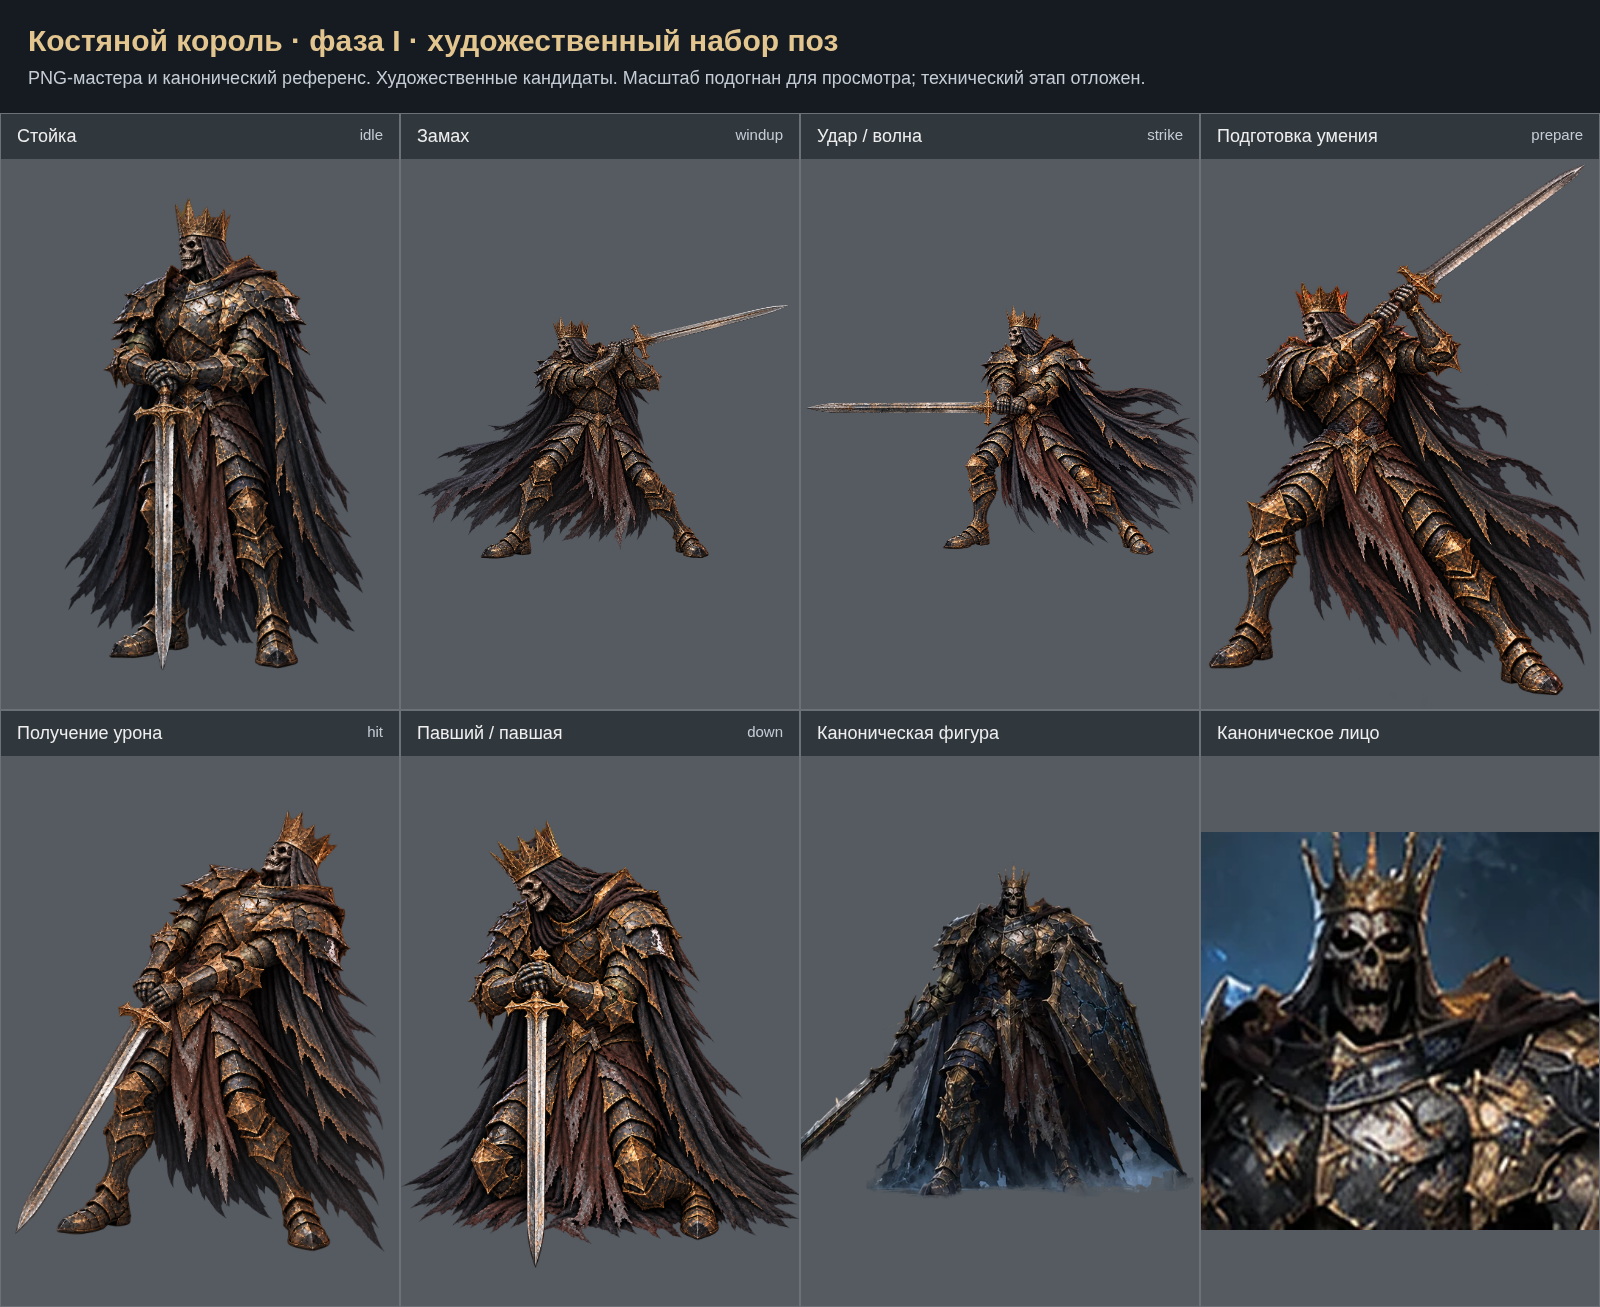
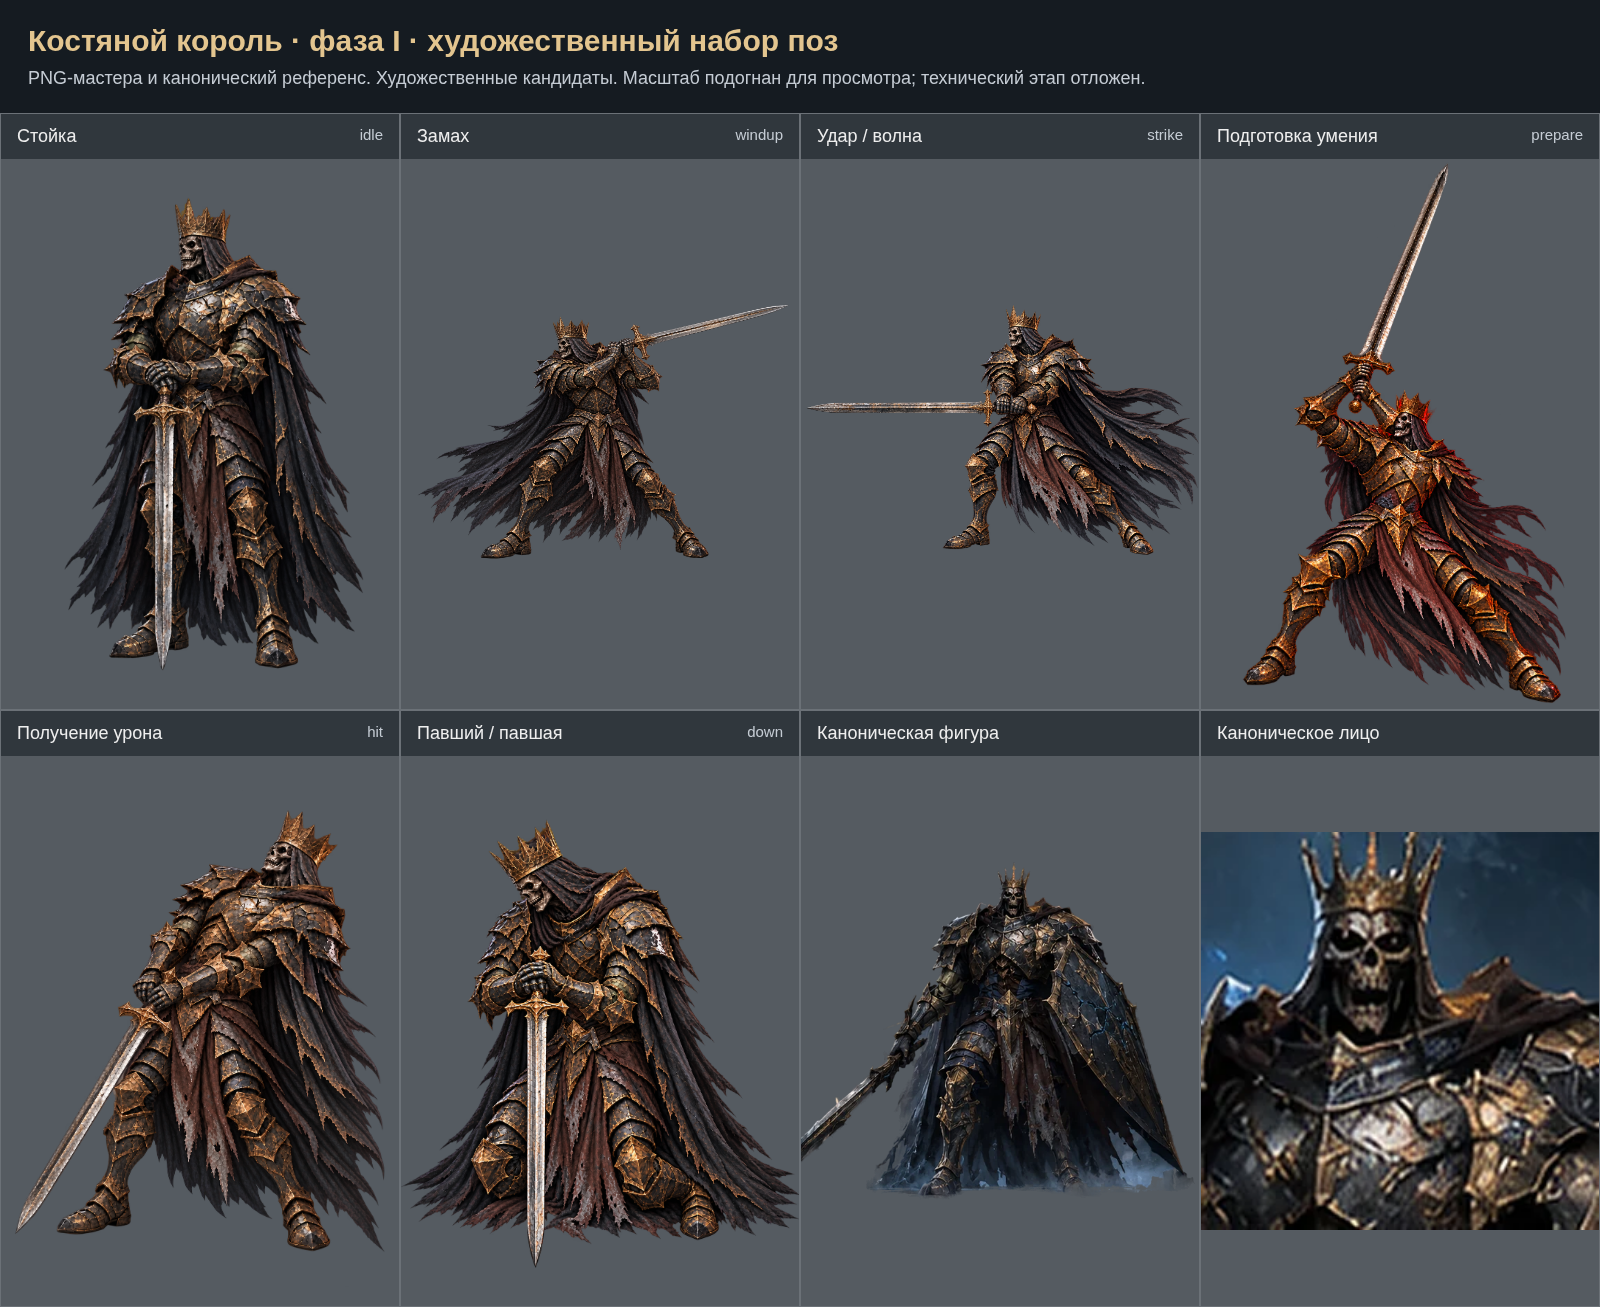
art: separate king sword grip from armor

Changed region(s): [[0.75, 0.1224, 1.0, 0.5509]]

diff --git a/docs/art-review/USER_REVIEW_2026_10_30_RU.md b/docs/art-review/USER_REVIEW_2026_10_30_RU.md
@@ -1,6 +1,6 @@
 # Правки по замечаниям пользователя — 30.10.2026
 
 - **Гоблин, замах:** предыдущий вариант имел неестественные плечевой пояс и руки. Поза перегенерирована с двумя раздельными плечами, согнутыми локтями и двумя клинками, отведёнными назад. [Новый вариант](../../art-sources/poses/goblinRaider/proposals/windup.png), [лист поз](goblinRaider-poses-v2/pose-sheet.png).
-- **Костяной король, фаза I, подготовка умения:** предыдущие кисти и рукоять имели дефекты. Поза перегенерирована; предплечья ведут к отдельным кистям, обе кисти расположены на короткой рукояти поднятого меча. [Новый вариант](../../art-sources/poses/boneKing/proposals/prepare.png), [лист поз](boneKing-poses-v2/pose-sheet.png).
+- **Костяной король, фаза I, подготовка умения:** после первой правки пользователь заметил, что рукоять по-прежнему сливалась с наручем. В новом кандидате положение рук изменено: навершие видно ниже кисти и отдельно от доспеха, обе руки держат один поднятый меч. Удлинён клинок и приглушено свечение короны. [Новый вариант](../../art-sources/poses/boneKing/proposals/prepare.png), [лист поз](boneKing-poses-v2/pose-sheet.png).
 
-Это кандидаты на художественный просмотр, приёмка пользователем ещё не зафиксирована. Предыдущие изображения доступны в истории Git на коммите `3ba207d`. [Запросы и ссылки на референсы](USER_REVIEW_2026_10_30_PROMPTS.json). Техническая интеграция и проверки остаются отложенными до общего завершающего этапа.
+Это кандидаты на художественный просмотр, приёмка пользователем ещё не зафиксирована. Предыдущие изображения доступны в истории Git: `3ba207d` — до обеих правок, `d5a4556` — до повторной правки короля. [Первые запросы](USER_REVIEW_2026_10_30_PROMPTS.json), [повторная правка рукояти](KING_HANDLE_USER_REVIEW_2026_10_30_PROMPTS.json). Техническая интеграция и проверки остаются отложенными до общего завершающего этапа.

diff --git a/docs/art-review/boneKing-poses-v2/README.md b/docs/art-review/boneKing-poses-v2/README.md
@@ -19,4 +19,4 @@
 
 [Обработанные замечания и оставшийся пункт](../REVIEW_PR16_2026_10_30_RU.md). Лист выше обновлён по текущим кандидатам.
 
-По замечанию пользователя от 30.10 подготовка умения перегенерирована из-за кистей, предплечий и рукояти; [описание правки](../USER_REVIEW_2026_10_30_RU.md).
+По замечаниям пользователя от 30.10 подготовка умения перегенерирована из-за кистей, предплечий и рукояти; повторная правка отделяет навершие от доспеха. [Описание правки](../USER_REVIEW_2026_10_30_RU.md).
